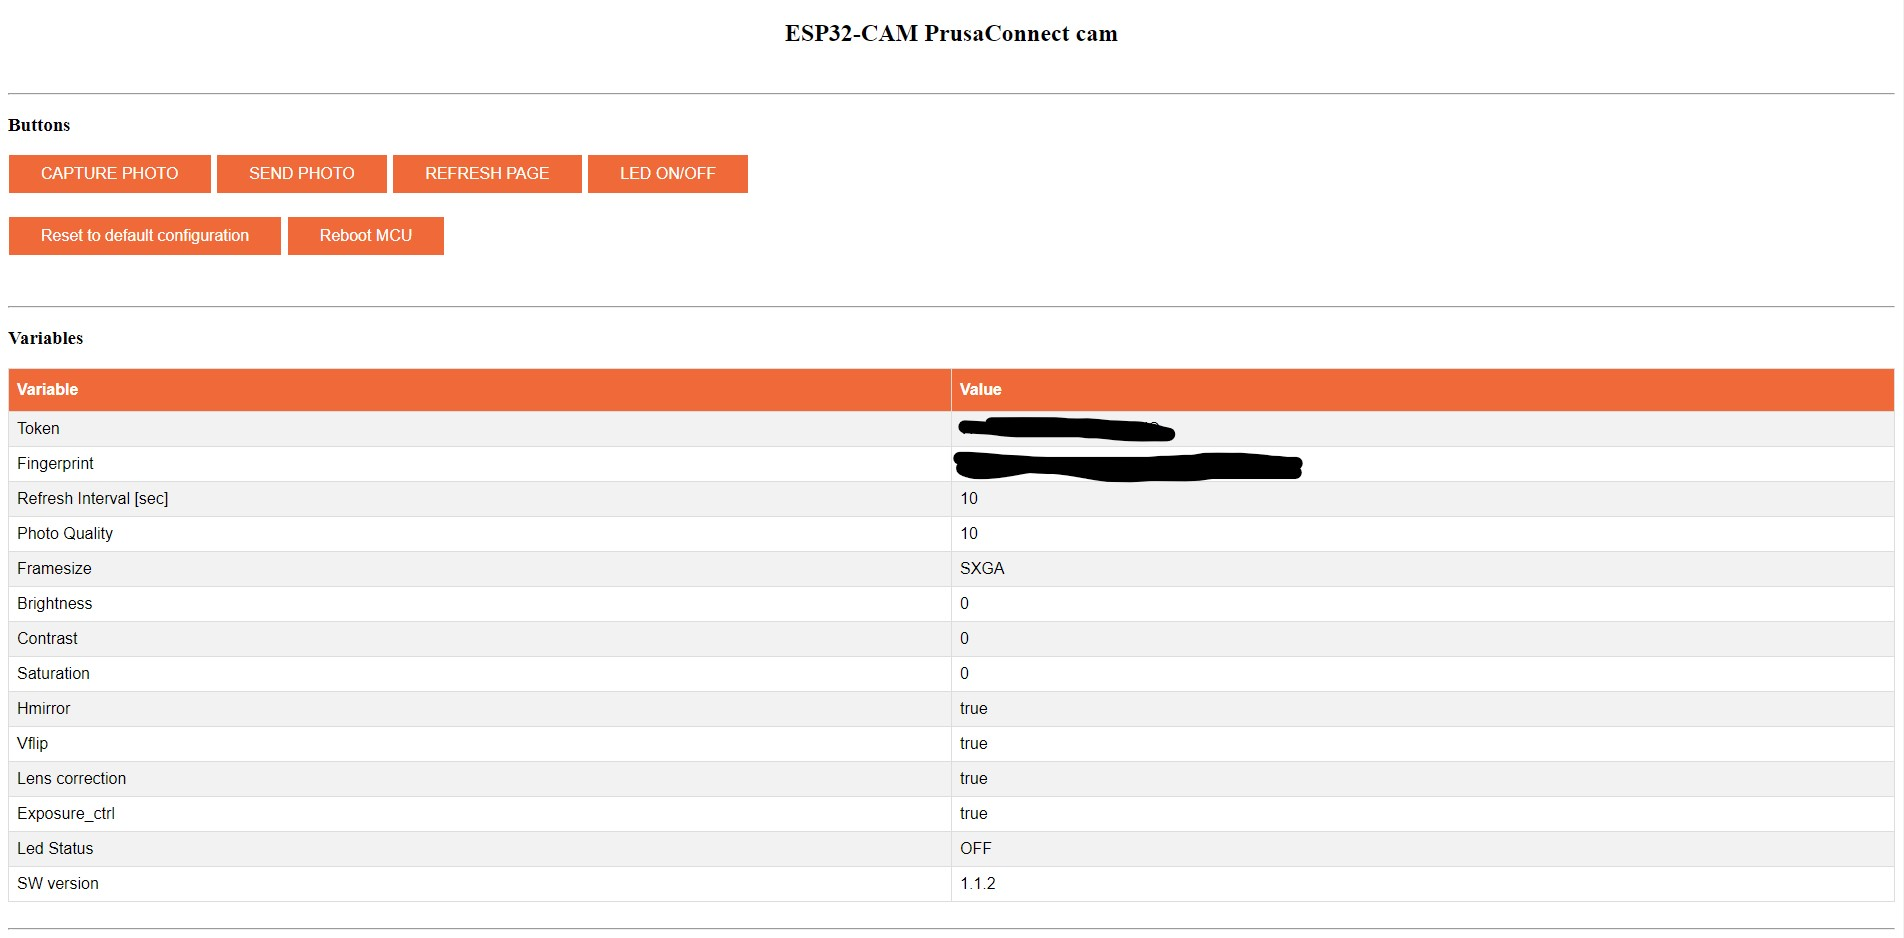
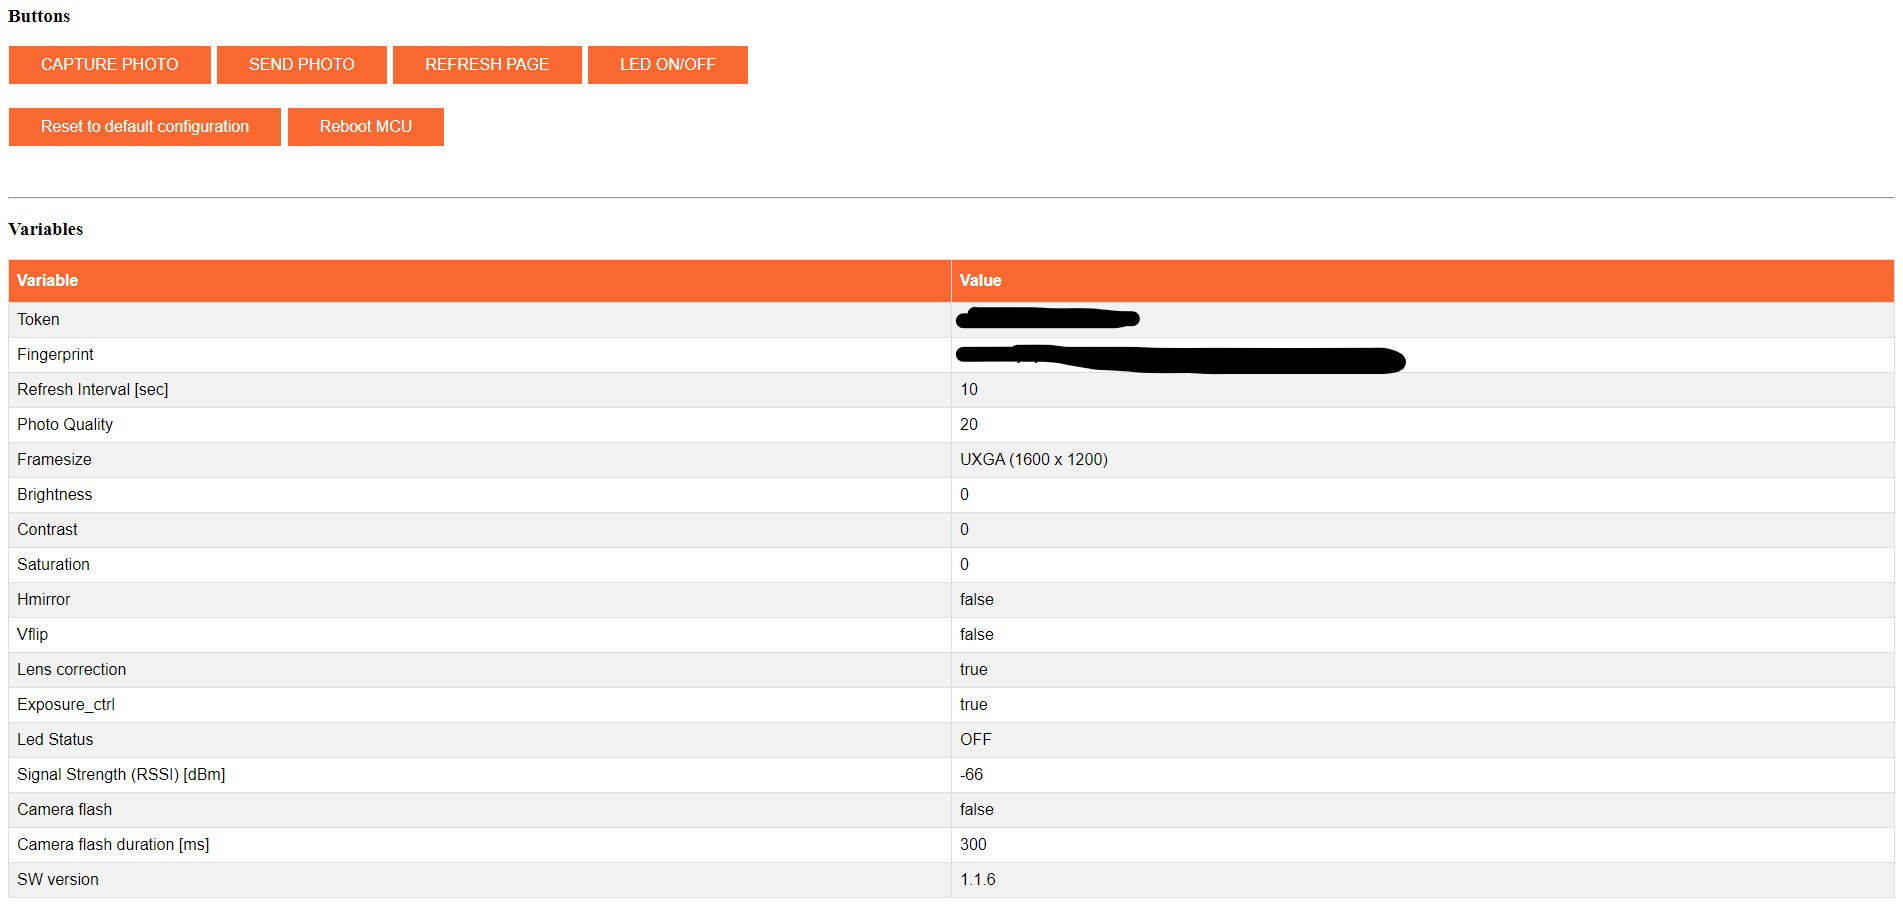
sw 1.1.6
- added camera flash functionality
- added reconnecting to wifi after connection lost.

diff --git a/ESP32_PrusaConnectCam_web/WebPage.h b/ESP32_PrusaConnectCam_web/WebPage.h
@@ -147,7 +147,13 @@ const char index_html[] PROGMEM = R"rawliteral(
             <td>Led Status</td><td id="led"></td>
         </tr>
         <tr>
-            <td>Signal Strength (RSSI) [dBm]:</td><td id="rssi"></td>
+            <td>Signal Strength (RSSI) [dBm]</td><td id="rssi"></td>
+        </tr>
+        <tr>
+            <td>Camera flash</td><td id="camera_flash"></td>
+        </tr>
+        <tr>
+            <td>Camera flash duration [ms]</td><td id="camera_flash_duration"></td>
         </tr>
         <tr>
             <td>SW version</td><td id="sw_ver"></td>
@@ -271,6 +277,7 @@ const char index_html[] PROGMEM = R"rawliteral(
       </tr>
       </table><br>
       
+      <h4>Photo configuration</h4>
       <form action="/action_page">
       <input type="checkbox" name="hmirror" value="1">
       <label for="hmirror"> Hmirror &emsp;&emsp;&emsp; - horizontal mirror</label><br>
@@ -285,7 +292,30 @@ const char index_html[] PROGMEM = R"rawliteral(
       <label for="exposure_ctrl"> exposure_ctrl &emsp; - Set exposure control</label><br>
         
       <input type="submit" value="Save">
-  </form>
+      </form>
+      
+      <br>
+      <h4>Camera Flash function</h4>
+      <table>
+      <tr><td>
+        Camera Flash function
+      </td><td>
+      <form action="/camera_flash">
+      <input type="submit" value="Enable/Disable">
+    </form>
+      </td>
+      <tr>
+      <td>
+          Camera flash duration [ms]
+        </td>
+        <td>
+          <form action="/camera_flash_duration">
+            <input type="text" name="flashduration" value="200">
+            <input type="submit" value="Save">
+          </form>
+        </td>
+        </tr>
+      </table>
     </div>
     
     <br><hr><h3>Picture</h3>
@@ -353,6 +383,8 @@ const char index_html[] PROGMEM = R"rawliteral(
               $("#exposure_ctrl").text(obj.exposure_ctrl);
               $("#led").text(obj.led);
               $("#rssi").text(obj.rssi);
+              $("#camera_flash").text(obj.camera_flash);
+              $("#camera_flash_duration").text(obj.camera_flash_duration);
               $("#sw_ver").text(obj.sw_ver);
             },
             error: function(html) {

diff --git a/ESP32_PrusaConnectCam_web/mcu_cfg.h b/ESP32_PrusaConnectCam_web/mcu_cfg.h
@@ -1,7 +1,7 @@
 #ifndef _MCU_CFG_H_
 #define _MCU_CFG_H_
 
-#define SW_VERSION         "1.1.5"
+#define SW_VERSION         "1.1.6"
 
 #define HOST_URL           "https://webcam.connect.prusa3d.com/c/snapshot" /* Prusa Connect server URL for photo */
 #define DOMAIN             "webcam.connect.prusa3d.com"                    /* prusa connect server */
@@ -59,7 +59,13 @@
 #define EEPROM_ADDR_FIRST_MCU_START_FLAG_START    (EEPROM_ADDR_PHOTO_QUALITY_START + EEPROM_ADDR_PHOTO_QUALITY_LENGTH)  
 #define EEPROM_ADDR_FIRST_MCU_START_FLAG_LENGTH   1                                                                                       
 
-#define EEPROM_SIZE                           (EEPROM_ADDR_REFRESH_INTERVAL_LENGTH + EEPROM_ADDR_FINGERPRINT_LENGTH + EEPROM_ADDR_TOKEN_LENGTH + EEPROM_ADDR_FRAMESIZE_LENGTH + EEPROM_ADDR_BRIGHTNESS_LENGTH + EEPROM_ADDR_CONTRAST_LENGTH + EEPROM_ADDR_SATURATION_LENGTH + EEPROM_ADDR_HMIRROR_LENGTH + EEPROM_ADDR_VFLIP_LENGTH + EEPROM_ADDR_LENSC_LENGTH + EEPROM_ADDR_EXPOSURE_CTRL_LENGTH + EEPROM_ADDR_PHOTO_QUALITY_LENGTH + EEPROM_ADDR_FIRST_MCU_START_FLAG_LENGTH) /* how many bits do we need for eeprom memory */
+#define EEPROM_ADDR_CAMERA_FLASH_FUNCTION         (EEPROM_ADDR_FIRST_MCU_START_FLAG_START + EEPROM_ADDR_FIRST_MCU_START_FLAG_LENGTH)
+#define EEPROM_ADDR_CAMERA_FLASH_FUNCTION_LENGTH  1
+
+#define EEPROM_ADDR_CAMERA_FLASH_DURATION         (EEPROM_ADDR_CAMERA_FLASH_FUNCTION + EEPROM_ADDR_CAMERA_FLASH_FUNCTION_LENGTH)
+#define EEPROM_ADDR_CAMERA_FLASH_DURATION_LENGTH  2
+
+#define EEPROM_SIZE                           (EEPROM_ADDR_REFRESH_INTERVAL_LENGTH + EEPROM_ADDR_FINGERPRINT_LENGTH + EEPROM_ADDR_TOKEN_LENGTH + EEPROM_ADDR_FRAMESIZE_LENGTH + EEPROM_ADDR_BRIGHTNESS_LENGTH + EEPROM_ADDR_CONTRAST_LENGTH + EEPROM_ADDR_SATURATION_LENGTH + EEPROM_ADDR_HMIRROR_LENGTH + EEPROM_ADDR_VFLIP_LENGTH + EEPROM_ADDR_LENSC_LENGTH + EEPROM_ADDR_EXPOSURE_CTRL_LENGTH + EEPROM_ADDR_PHOTO_QUALITY_LENGTH + EEPROM_ADDR_FIRST_MCU_START_FLAG_LENGTH + EEPROM_ADDR_CAMERA_FLASH_FUNCTION_LENGTH + EEPROM_ADDR_CAMERA_FLASH_DURATION_LENGTH) /* how many bits do we need for eeprom memory */
 
 #endif
 

diff --git a/ESP32_PrusaConnectCam_web/cfg.cpp b/ESP32_PrusaConnectCam_web/cfg.cpp
@@ -31,6 +31,8 @@ void Cfg_ReadCfg() {
   Cfg_LoadVflip();
   Cfg_LoadLensCorrect();
   Cfg_LoadExposureCtrl();
+  Cfg_LoadCameraFlash();
+  Cfg_LoadCameraFlashDuration();
 }
 
 /* set default cfg */
@@ -49,6 +51,8 @@ void Cfg_DefaultCfg() {
   Cfg_SaveVflip(0);
   Cfg_SaveLensCorrect(1);
   Cfg_SaveExposureCtrl(1);
+  Cfg_SaveCameraFlash(false);
+  Cfg_SaveCameraFlashDuration(200);
 }
 
 void Cfg_GetFingerprint() {
@@ -271,6 +275,25 @@ void Cfg_SaveFirstMcuStartFlag(uint8_t i_data) {
   EEPROM.commit();
 }
 
+void Cfg_SaveCameraFlash(bool i_data) {
+  Serial.print("Save camera flash function status: ");
+  Serial.println(i_data);
+
+  EEPROM.write(EEPROM_ADDR_CAMERA_FLASH_FUNCTION, i_data);
+  EEPROM.commit();
+}
+
+void Cfg_SaveCameraFlashDuration(uint16_t i_data) {
+  Serial.print("Save camera flash duration: ");
+  Serial.println(i_data);
+  uint8_t highByte = highByte(i_data);
+  uint8_t lowByte = lowByte(i_data);
+
+  EEPROM.write(EEPROM_ADDR_CAMERA_FLASH_DURATION, highByte);
+  EEPROM.write(EEPROM_ADDR_CAMERA_FLASH_DURATION + 1, lowByte);
+  EEPROM.commit();
+}
+
 /* load refresh interval from eeprom */
 void Cfg_LoadRefreshInterval() {
   RefreshInterval = EEPROM.read(EEPROM_ADDR_REFRESH_INTERVAL_START);
@@ -371,6 +394,18 @@ void Cfg_LoadExposureCtrl() {
   CameraCfg.exposure_ctrl = EEPROM.read(EEPROM_ADDR_EXPOSURE_CTRL_START);
   Serial.print("exposure_ctrl: ");
   Serial.println(CameraCfg.exposure_ctrl);
+}
+
+void Cfg_LoadCameraFlash() {
+  CameraCfg.CameraFlashStatus = EEPROM.read(EEPROM_ADDR_CAMERA_FLASH_FUNCTION);
+  Serial.print("Camera flash function: ");
+  Serial.println(CameraCfg.CameraFlashStatus);
+}
+
+void Cfg_LoadCameraFlashDuration() {
+  CameraCfg.CameraFlashDuration = uint16_t(EEPROM.read(EEPROM_ADDR_CAMERA_FLASH_DURATION) << 8) | (EEPROM.read(EEPROM_ADDR_CAMERA_FLASH_DURATION + 1));
+  Serial.print("Camera flash duration: ");
+  Serial.println(CameraCfg.CameraFlashDuration);
 }
 
 /* EOF */

diff --git a/ESP32_PrusaConnectCam_web/server.cpp b/ESP32_PrusaConnectCam_web/server.cpp
@@ -135,6 +135,25 @@ void Server_InitWebServer() {
     }
   });
 
+  /* route for change camera flash status */
+  server.on("/camera_flash", HTTP_GET, [](AsyncWebServerRequest * request) {
+    Serial.println("WEB server: Change camera_flash status");
+    CameraCfg.CameraFlashStatus = !CameraCfg.CameraFlashStatus;
+    Cfg_SaveCameraFlash(CameraCfg.CameraFlashStatus);
+    request->send_P(200, F("text/html"), MSG_SAVE_OK);
+  });
+
+  /* route for set flash duration */
+  server.on("/camera_flash_duration", HTTP_GET, [](AsyncWebServerRequest * request) {
+    Serial.println("WEB server: set saturation");
+    request->send_P(200, F("text/html"), MSG_SAVE_OK);
+
+    if (request->hasParam("flashduration")) {
+      CameraCfg.CameraFlashDuration = request->getParam("flashduration")->value().toInt();
+      Cfg_SaveCameraFlashDuration(CameraCfg.CameraFlashDuration);
+    }
+  });
+
   /* route for set actions */
   server.on("/action_page", HTTP_GET, [](AsyncWebServerRequest * request) {
     Serial.println("WEB server: set saturation");
@@ -337,6 +356,14 @@ String Server_GetJsonData() {
   bool led = digitalRead(FLASH_GPIO_NUM);
   data += "\"led\" : \"";
   data += (led == true) ? "ON" : "OFF";
+  data += "\", ";
+
+  data += "\"camera_flash\" : \"";
+  data += (CameraCfg.CameraFlashStatus == 1) ? "true" : "false";
+  data += "\", ";
+
+  data += "\"camera_flash_duration\" : \"";
+  data += String(CameraCfg.CameraFlashDuration);
   data += "\", ";
 
   data += "\"rssi\" : \"";

diff --git a/ESP32_PrusaConnectCam_web/camera.cpp b/ESP32_PrusaConnectCam_web/camera.cpp
@@ -4,6 +4,15 @@
 void Camera_CapturePhoto() {
   camera_fb_t * fb = NULL;
 
+  /* check flash */
+  if (true == CameraCfg.CameraFlashStatus) {
+    digitalWrite(FLASH_GPIO_NUM, HIGH);
+    delay(CameraCfg.CameraFlashDuration);
+  }
+  /* get train photo */
+  fb = esp_camera_fb_get();
+  esp_camera_fb_return(fb);
+
   do {
     Serial.println("Taking a photo...");
 
@@ -29,6 +38,10 @@ void Camera_CapturePhoto() {
 
     /* check if photo is correctly saved */
   } while ( !( photo.length() > 100));
+
+  if (true == CameraCfg.CameraFlashStatus) {
+    digitalWrite(FLASH_GPIO_NUM, LOW);
+  }
 }
 
 /* Init camera module */

diff --git a/ESP32_PrusaConnectCam_web/cfg.h b/ESP32_PrusaConnectCam_web/cfg.h
@@ -31,6 +31,8 @@ void Cfg_SaveVflip(bool);
 void Cfg_SaveLensCorrect(bool);
 void Cfg_SaveExposureCtrl(bool);
 void Cfg_SaveFirstMcuStartFlag(uint8_t);
+void Cfg_SaveCameraFlash(bool);
+void Cfg_SaveCameraFlashDuration(uint16_t);
 
 void Cfg_LoadRefreshInterval();
 void Cfg_LoadToken();
@@ -44,6 +46,8 @@ void Cfg_LoadHmirror();
 void Cfg_LoadVflip();
 void Cfg_LoadLensCorrect();
 void Cfg_LoadExposureCtrl();
+void Cfg_LoadCameraFlash();
+void Cfg_LoadCameraFlashDuration();
 
 #endif
 

diff --git a/ESP32_PrusaConnectCam_web/var.h b/ESP32_PrusaConnectCam_web/var.h
@@ -23,6 +23,9 @@ struct CameraCfg_struct {
   bool vflip;
   bool lensc;
   bool exposure_ctrl;
+
+  bool CameraFlashStatus;
+  uint16_t CameraFlashDuration;
 };
 
 extern struct CameraCfg_struct CameraCfg;

diff --git a/README.md b/README.md
@@ -117,6 +117,7 @@ const char* password =      "12345678";
 - 6.4.2023  - fix issue with default configuration, added RSSI information on the root WEB page about signal quality for **ESP32_PrusaConnectCam_web**. app **version 1.1.3**
 - 16.9.2023 - Prusa has officially released the possibility of generating a token for a camera with an official API. This version has implemented compatibility with the official Prusa API. Added detection of the first MCU start, and fingerprint generation. **WARNING! Before uploading this SW version to the MCU, please back up your configuration. This version clear currently saved configuration in the MCU!** app **version 1.1.4**
 - 16.9.2023 - added mDNS record http://prusa-esp32cam.local **version 1.1.5**
+- 2.11.2023 - added Camera flash functionality, and added auto reconnect to WiFi after connection lost
   
 # TO-DO
 - add additional parameters for camera configuration
